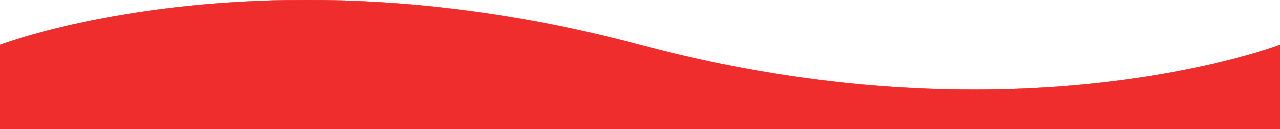
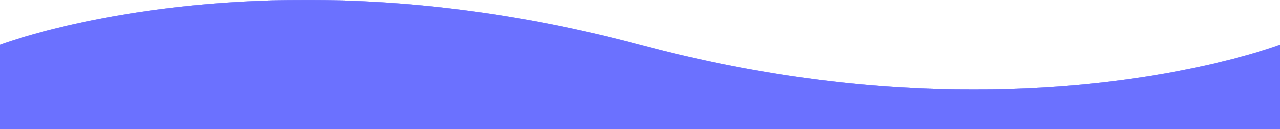
att

diff --git a/styles/index.css b/styles/index.css
@@ -48,7 +48,7 @@ section {
 }
 
 button {
-    background-color: #EF2D2D;
+    background-color: #6B71FF;
     color: white;
     width: 300px;
     height: 60px;
@@ -60,7 +60,7 @@ button {
 }
 
 .neon {
-    color: #EF2D2D;  
+    color: #6B71FF;  
     text-decoration: none;
     transition: 0.5s;
     letter-spacing: 4px;
@@ -68,8 +68,8 @@ button {
 }
 
 .neon:hover {
-    background: #EF2D2D;
-    box-shadow: 0 0 5px #ef2d2d96, 0 0 25px #ef2d2d80, 0 0 50px #ef2d2d44, 0 0 200px #ef2d2d56;
+    background: #6B71FF;
+    box-shadow: 0 0 5px #6b70ffbb, 0 0 25px #6b70ff7c, 0 0 50px #6b70ff88, 0 0 200px #6b70ff7a;
 }
 
 #section {
@@ -93,7 +93,7 @@ button {
 }
 
 #icon-img:hover {
-    color: #EF2D2D;
+    color: #6B71FF;
     transition: 0.5s;
     transform: scale(1.2);
     opacity: 60;
